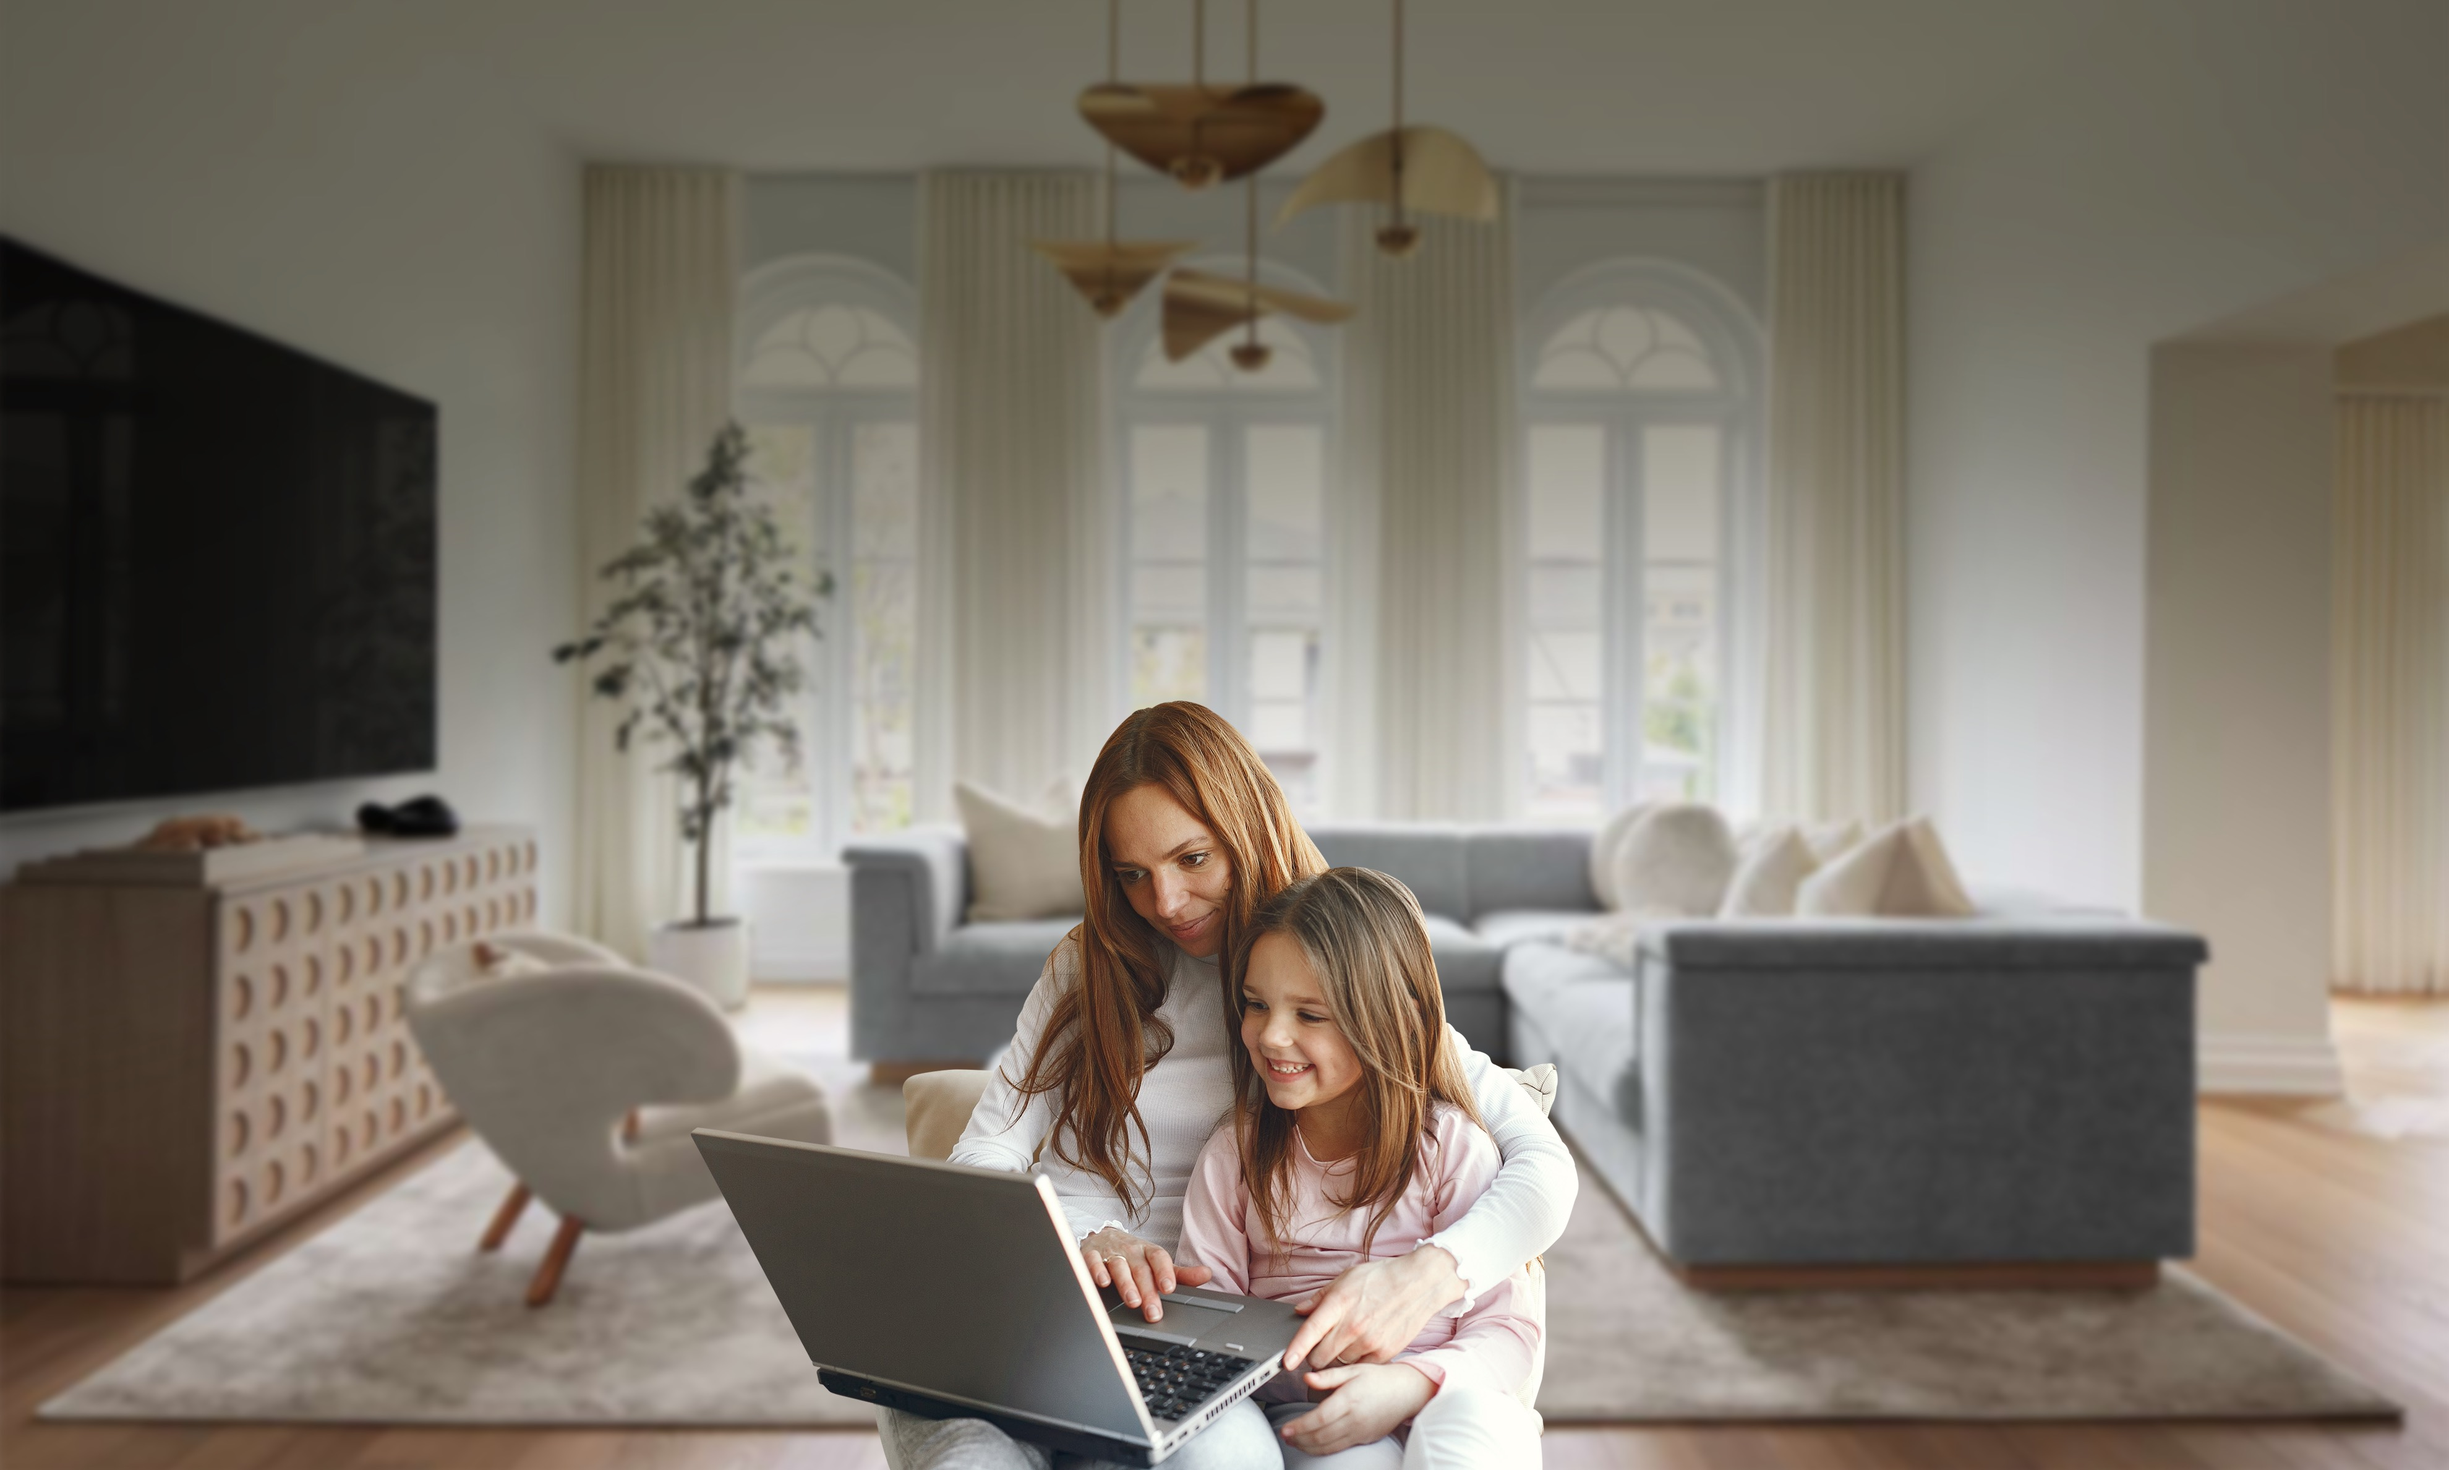
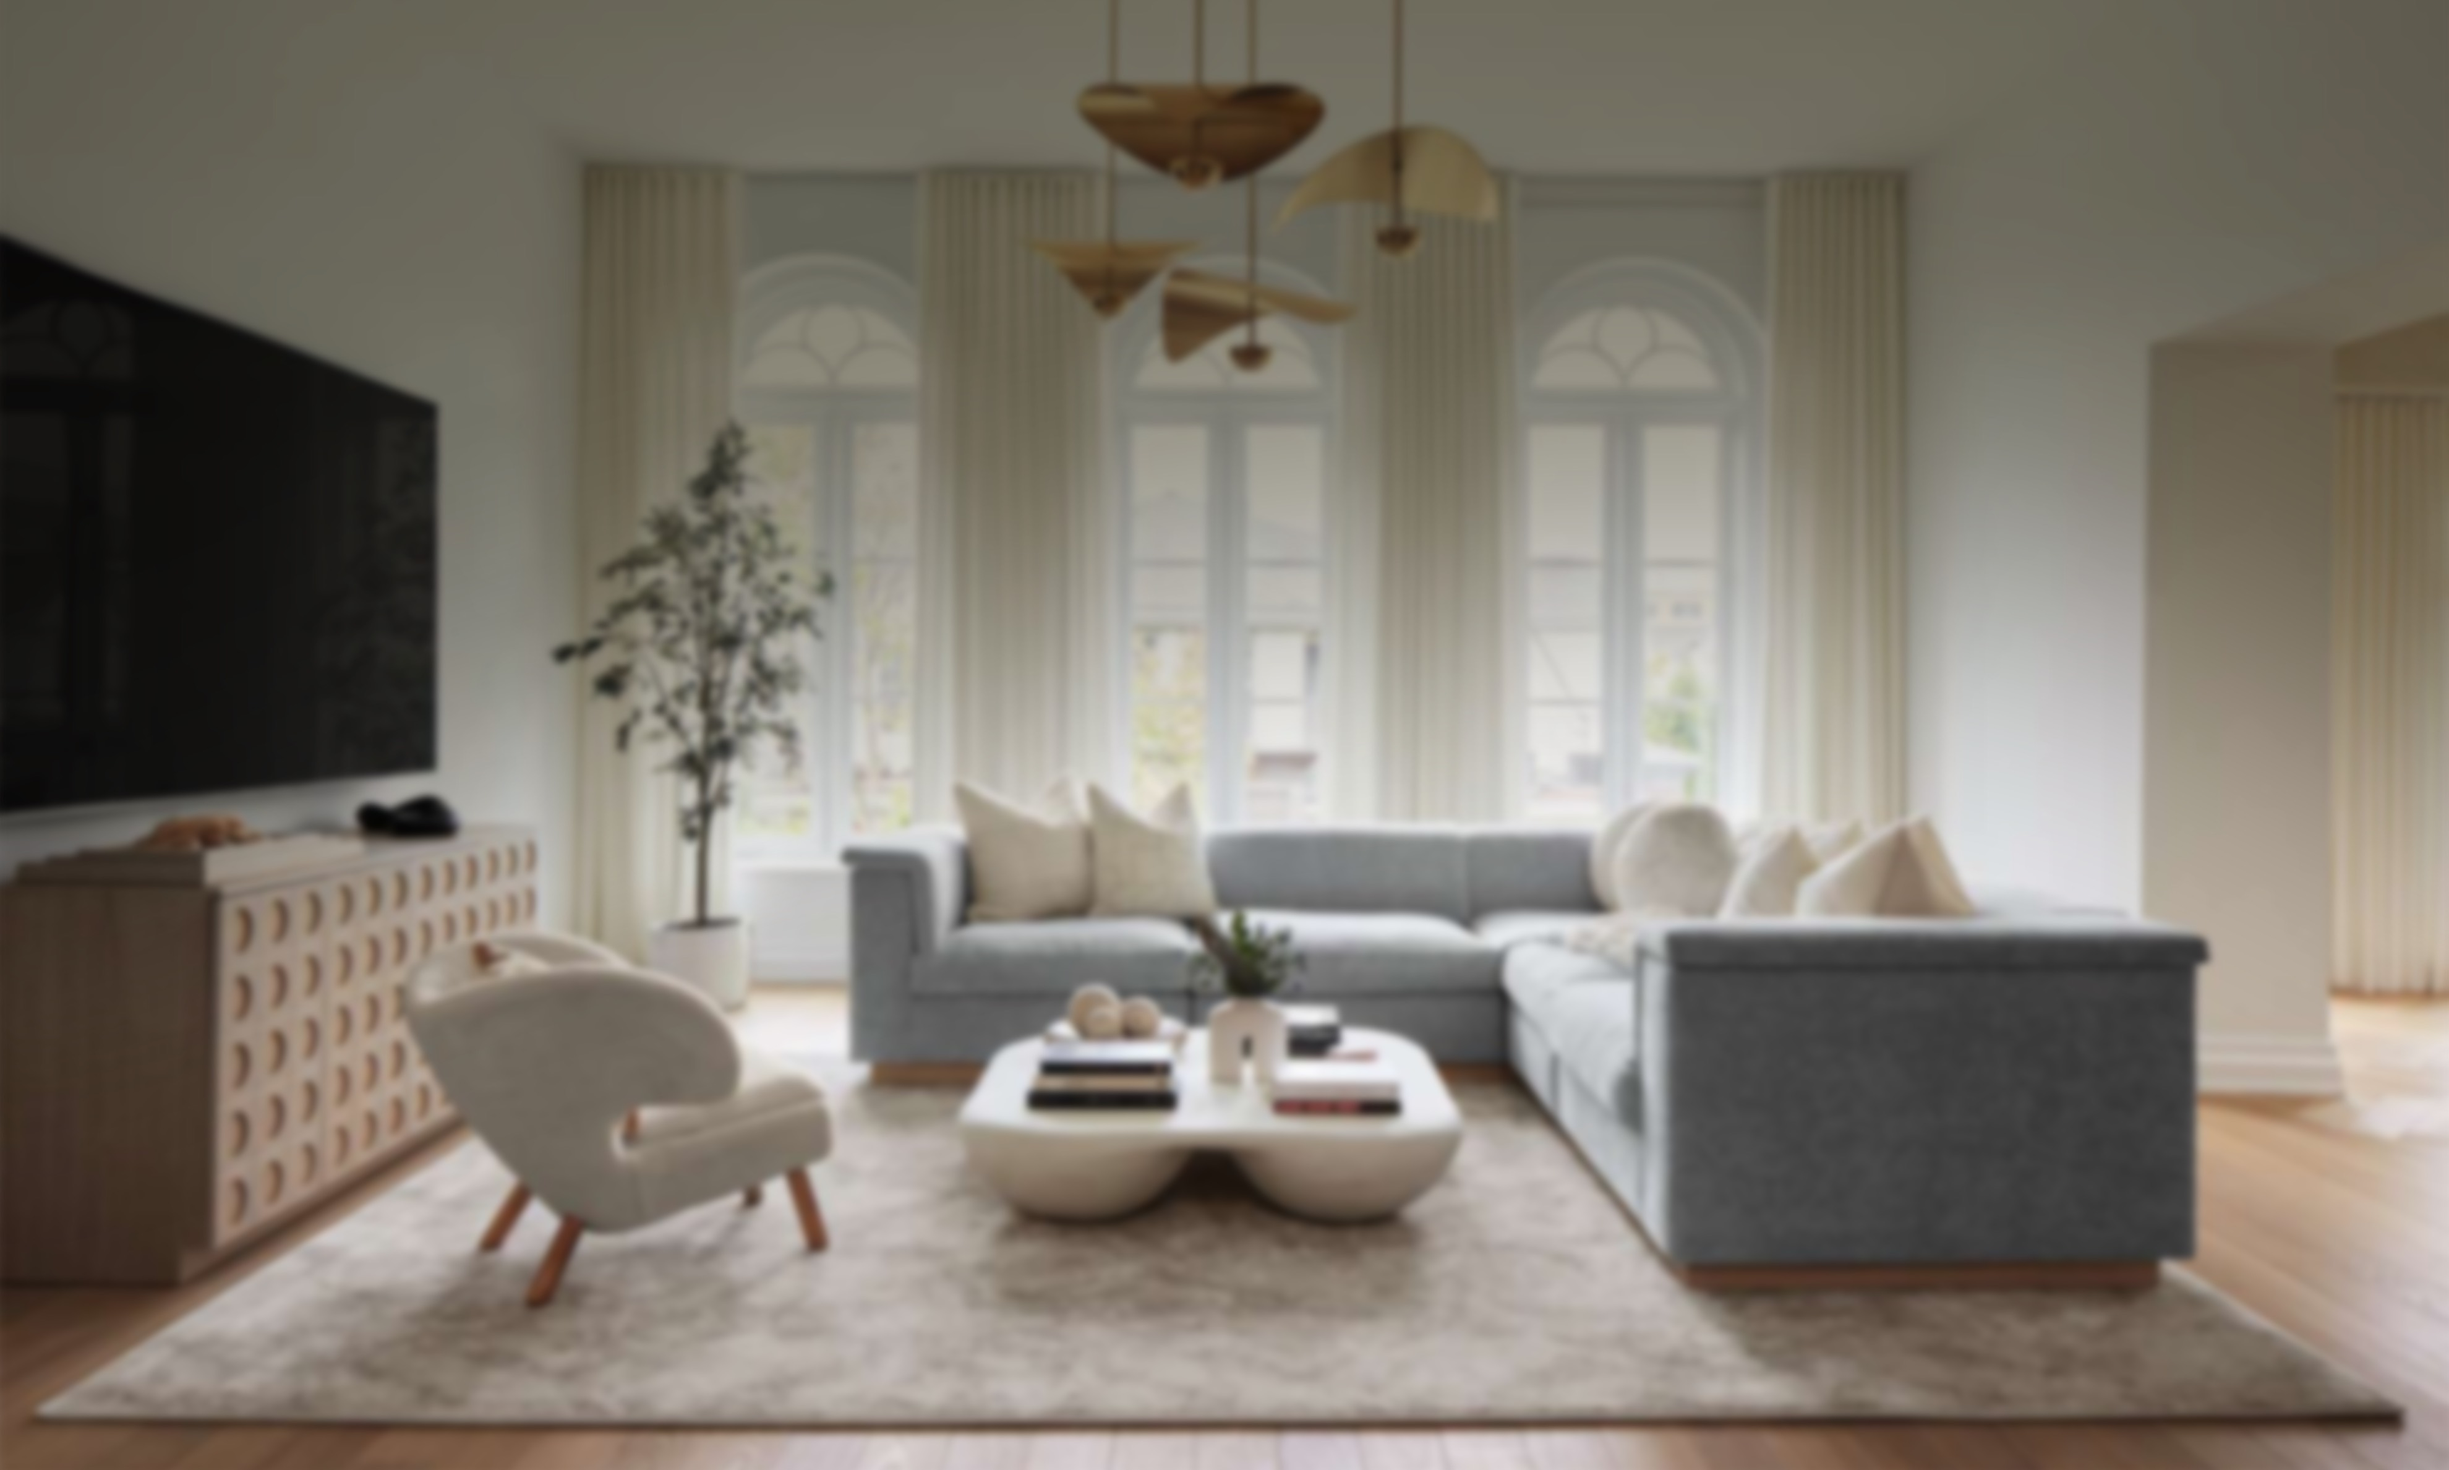
Efecto parallax en guia

Changed region(s): [[0.2795, 0.467, 0.6523, 1.0]]

diff --git a/src/app/components/paralax/ParalaxHome.jsx b/src/app/components/paralax/ParalaxHome.jsx
@@ -1,0 +1,99 @@
+import React, { useState, useEffect, useRef } from 'react';
+import Image from 'next/image';
+import Button from "../buttons/Button";
+
+export default function ParalaxHome(){
+  const containerRef = useRef(null);
+  const [elements, setElements] = useState([]);
+  const [axes, setAxes] = useState({ x: true, y: true });
+
+  useEffect(() => {
+    const container = containerRef.current;
+    if (!container) return;
+
+    const updateElements = () => {
+      setElements(container.querySelectorAll('.parallax-element'));
+    };
+
+    updateElements();
+
+    window.addEventListener('resize', updateElements);
+
+    return () => {
+      window.removeEventListener('resize', updateElements);
+    };
+  }, [containerRef]);
+
+  const handleMouseMove = (event) => {
+    if (!containerRef.current || !elements.length) return;
+
+    const container = containerRef.current;
+    const { offsetWidth, offsetHeight } = container;
+    const mousePos = {
+      left: event.pageX - container.offsetLeft,
+      top: event.pageY - container.offsetTop,
+    };
+
+    elements.forEach((element) => {
+      const strength = parseInt(element.dataset.parallaxStrength, 10);
+
+      if (axes.x) {
+        const movementX = (mousePos.left - offsetWidth / 2) * strength / offsetWidth;
+        element.style.transform = `translateX(${movementX}px)`;
+      }
+
+      if (axes.y) {
+        const movementY = (mousePos.top - offsetHeight / 2) * strength / offsetHeight;
+        element.style.transform = `translateY(${movementY}px)`;
+      }
+    });
+  };
+
+  const handleDataParallaxAxe = () => {
+    const dataParallaxAxe = containerRef.current?.dataset.parallaxAxe;
+    if (dataParallaxAxe === 'x') {
+      setAxes({ x: true, y: false });
+    } else if (dataParallaxAxe === 'y') {
+      setAxes({ x: false, y: true });
+    } else {
+      setAxes({ x: true, y: true });
+    }
+  };
+
+  useEffect(() => {
+    handleDataParallaxAxe();
+  }, [containerRef]);
+
+  return (
+    <div ref={containerRef} className="parallax-mouse bg-[url(/bg-home.jpg)] bg-no-repeat h-screen bg-center bg-cover py-20 relative" onMouseMove={handleMouseMove}>
+      <Image 
+        src={'/logo-guia.png'}
+        alt="titulo"
+        width={960}
+        height={540}
+        priority
+        quality={100}
+        className="w-full max-w-[700px] mx-auto px-5 h-auto z-[1] parallax-element top-4"
+        data-parallax-strength="30"
+      />
+      <p className="text-white uppercase text-xl font-semibold tracking-[5px] text-center parallax-element top-10" data-parallax-strength="60">
+        DONDE ENCONTRAR LA<br /> MEJOR OFERTA EDUCATIVA
+      </p>
+      <div className='w-full max-w-fit mx-auto parallax-element top-20 mt-7' data-parallax-strength="80">
+        <Button>
+          Suscribete
+        </Button>
+      </div>
+      <Image 
+        src={'/people/guia-img.png'}
+        alt="personas"
+        width={960}
+        height={540}
+        priority
+        quality={100}
+        className="w-full max-w-[500px] mx-auto px-5 h-auto z-[1] parallax-element -bottom-2"
+        data-parallax-strength="100"
+      />
+    </div>
+  );
+}

diff --git a/src/app/page.js b/src/app/page.js
@@ -11,6 +11,7 @@ const People = dynamic(() => import('@/app/components/presentation/People'));
 const SwiperTop = dynamic(() => import('@/app/components/swipers/SwiperTop'));
 const SwiperBanners = dynamic(() => import('@/app/components/swipers/SwiperBanners'));
 const Modal = dynamic(() => import('@/app/components/modals/Modal'));
+const ParalaxHome = dynamic(() => import('@/app/components/paralax/ParalaxHome'));
 import ParticleCanvas from "./components/particles/ParticleCanvas";
 
 export default function Home() {
@@ -131,23 +132,7 @@ export default function Home() {
           </div>
         </div> */}
       </section>
-      <section className="bg-[url(/bg-home.jpg)] bg-no-repeat bg-center bg-cover relative py-20 flex flex-col gap-20 justify-start items-center">
-        <Image 
-          src={'/logo-guia.png'}
-          alt="titulo"
-          width={960}
-          height={540}
-          priority
-          quality={100}
-          className="w-full max-w-[700px] px-5 h-auto z-[1]"
-        />
-        <p className="text-white uppercase text-xl font-semibold tracking-[5px] text-center">
-          DONDE ENCONTRAR LA<br /> MEJOR OFERTA EDUCATIVA
-        </p>
-        <Button className={'mt-7'}>
-          Suscribete
-        </Button>
-      </section>
+      <ParalaxHome />
       {/* <section className="flex flex-col justify-start items-center">
         <Image 
           src={'/titulo-full.png'}

diff --git a/src/components/nested-layout.jsx b/src/components/nested-layout.jsx
@@ -6,14 +6,17 @@ import React from 'react'
 // import Header from "@/components/Header";
 // import Footer from "@/components/Footer";
 import { PrimeReactProvider } from 'primereact/api';
+import { ParallaxProvider } from 'react-scroll-parallax';
 
 export default function NestedLayout({ children }) {
   return (
     <PrimeReactProvider>
       <UserContextProvider >
-        {/* <Header /> */}
-        {children}
-        {/* <Footer /> */}
+        <ParallaxProvider>
+          {/* <Header /> */}
+          {children}
+          {/* <Footer /> */}
+        </ParallaxProvider>
       </UserContextProvider>
     </PrimeReactProvider>
   )

diff --git a/src/app/globals.css b/src/app/globals.css
@@ -702,3 +702,14 @@ section {
     width: 45% !important;
   }
 }
+
+.parallax-mouse{
+  width: 100%;
+  height: 100vh;
+  display: block;
+  position: relative;
+  overflow: hidden;
+}
+.parallax-mouse div .parallax-element{
+  position: absolute;
+}
